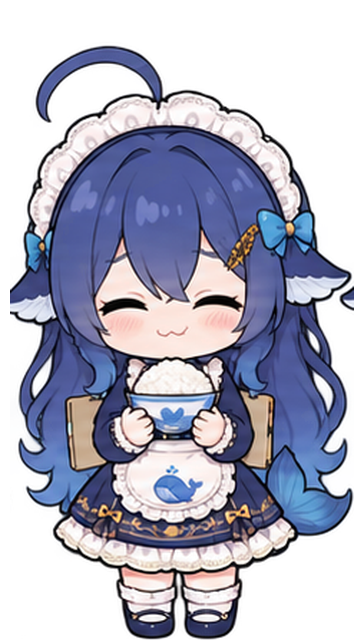
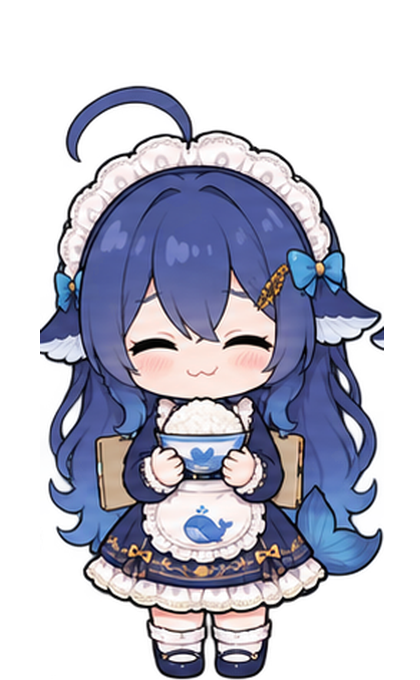
接上 6 个专属姿势（Kapozux 画：记账、数饭碗、本子挡脸、翻本子质问、喷水欢呼、鞠躬），和表情混着用：干活记账/思考、被抓包挡脸/害羞、认错鞠躬/害羞、开心喷水/笑、总账数饭碗/吃饭、闹别扭质问/鼓脸，随机挑一张。新姿势比站姿宽、喷水比头高，所有立绘画布统一放大到 420×680（只补透明边）

diff --git a/src/shared/pet-engine.js b/src/shared/pet-engine.js
@@ -53,12 +53,17 @@ export function rounds(text) {
   })
 }
 
-/** 台词里的动作 → 表情图（assets/xiaobenben/<名字>.png）。缺的图用 normal。 */
+/**
+ * 台词里的动作 → 表情图（assets/xiaobenben/<名字>.png）。给一串的随机挑一张有图的，同一类事不总是同一个样子；
+ * 都没图用 normal。表情（脸）和姿势（记账、数饭碗、本子挡脸……）混着用。
+ */
 export const EXPR = {
-  idle: 'normal', work: 'thinking', file: 'thinking', yawn: 'sleepy', startle: 'surprised', drag: 'surprised',
-  caught: 'shy', bow: 'shy', sigh: 'sad', cheer: 'happy', eat: 'eat', poke: 'happy', angry: 'pout', proud: 'proud',
+  idle: 'normal', work: ['write', 'thinking'], file: ['write', 'thinking'], yawn: 'sleepy', startle: 'surprised', drag: 'surprised',
+  caught: ['hide', 'shy'], bow: ['bow', 'shy'], sigh: 'sad', cheer: ['spout', 'happy'], eat: ['count', 'eat'], poke: 'happy',
+  angry: ['accuse', 'pout'], proud: 'proud',
 }
-export const FIGURES = ['normal', 'blink', 'happy', 'sad', 'surprised', 'sleepy', 'shy', 'thinking', 'eat', 'pout', 'proud', 'flip-1', 'flip-2', 'flip-3', 'flip-4', 'flip-5', 'flip-6']
+export const POSES = ['write', 'count', 'hide', 'accuse', 'spout', 'bow']
+export const FIGURES = ['normal', 'blink', 'happy', 'sad', 'surprised', 'sleepy', 'shy', 'thinking', 'eat', 'pout', 'proud', ...POSES, 'flip-1', 'flip-2', 'flip-3', 'flip-4', 'flip-5', 'flip-6']
 
 const CSS = `
 .fy-root { position: absolute; inset: 0; pointer-events: none; overflow: hidden; font-family: "XBB Rounded", -apple-system, "PingFang SC", "Hiragino Sans GB", "Microsoft YaHei", sans-serif; }
@@ -205,13 +210,18 @@ export function createPet(host, opts) {
   /** 换表情：有这张表情图就换图；没有就用 normal 图 + 代码画的漫画符号和动作。ms 后回到 normal（0 = 保持到下次换） */
   function setExpr(name, ms = 0) {
     clearTimeout(exprTimer)
-    expr = name in MARK || name === 'normal' ? name : 'normal'
+    expr = name in MARK || name === 'normal' || (POSES.includes(name) && srcs[name]) ? name : 'normal'
     float.className = 'fy-float' + (expr !== 'normal' && !srcs[expr] ? ' fy-e-' + expr : '')
     mark.textContent = expr === 'shy' ? '' : MARK[expr] || ''
     show(expr)
     if (ms) exprTimer = setTimeout(() => setExpr('normal'), ms)
   }
-  const playAnim = (anim, ms = 0) => setExpr(EXPR[anim] || 'normal', ms)
+  const playAnim = (anim, ms = 0) => {
+    const e = EXPR[anim] || 'normal'
+    if (!Array.isArray(e)) return setExpr(e, ms)
+    const have = e.filter(n => srcs[n])
+    setExpr(have.length ? have[Math.floor(Math.random() * have.length)] : e.at(-1), ms)
+  }
   const idle = () => setExpr('normal')
   // 眨眼：只在 normal 时眨，每 2.5～6 秒一次，偶尔连眨两下
   let blinkTimer = 0

diff --git a/desktop/index.html b/desktop/index.html
@@ -12,7 +12,7 @@ const prefs = {
 const seen = new Map()
 const load = () => fetch('moments.json', { cache: 'no-store' }).then(r => r.ok ? r.json() : null).then(d => d?.moments ? d : null).catch(e => { console.error('读台词失败', e); return null })
 const engine = createPet(document.getElementById('host'), {
-  size: 320, aspect: 360 / 640, prefs,
+  size: 340, aspect: 420 / 680, prefs,
   fontSrc: 'assets/fonts/xbb-rounded.woff2',
   figureSrc: k => { if (!seen.has(k)) seen.set(k, fetch('assets/xiaobenben/' + k + '.png', { method: 'HEAD' }).then(r => r.ok ? 'assets/xiaobenben/' + k + '.png' : null).catch(() => null)); return seen.get(k) },
   loadMoments: load,

diff --git a/src/client/Pet.jsx b/src/client/Pet.jsx
@@ -38,8 +38,8 @@ export function Pet() {
     let engine = null
     const syncDesktop = d => { host.style.display = d?.desktop?.on ? 'none' : '' }
     engine = createPet(host, {
-      size: 320,
-      aspect: 360 / 640,
+      size: 340,
+      aspect: 420 / 680,
       prefs,
       figureSrc,
       fontSrc: asset('fonts/xbb-rounded.woff2'),

diff --git a/assets/xiaobenben/CREDITS.md b/assets/xiaobenben/CREDITS.md
@@ -4,7 +4,9 @@
 |---|---|---|
 | `turnaround.png` | 三视图原画（正面 / 侧面 / 背面，透明背景） | Kapozux，用 ChatGPT 的图像生成绘制 |
 | `flip-sheet.png` | 翻本子的 6 帧原画（一张横排） | 同上 |
-| `flip-1.png` … `flip-6.png` | 从 `flip-sheet.png` 切出的单帧，统一成 360×640、按脚底对齐 | 同上（切图、对齐：本插件） |
+| `flip-1.png` … `flip-6.png` | 从 `flip-sheet.png` 切出的单帧，统一成 420×680、按脚底对齐 | 同上（切图、对齐：本插件） |
+| `poses-1-sheet.png` | 6 个专属姿势原画（一张横排） | 同上 |
+| `write` `count` `hide` `accuse` `spout` `bow` `.png` | 从 `poses-1-sheet.png` 切出：记账、数饭碗、本子挡脸、翻本子质问、喷水欢呼、鞠躬 | 同上（切图、对齐：本插件） |
 | `expressions-sheet.png` | 9 种表情原画（一张横排） | 同上 |
 | `happy` `sad` `surprised` `sleepy` `shy` `thinking` `eat` `pout` `proud` `.png` | 从 `expressions-sheet.png` 切出的单帧，缩放到和 `normal.png` 同样身高、按脚底对齐 | 同上（切图、对齐：本插件） |
 | `normal.png` | 平时站着的样子，就是 `flip-1.png` | 同上 |
@@ -19,5 +21,5 @@
 
 ## 想加表情图？
 
-同目录放这些名字的透明 PNG（和 `normal.png` 同尺寸 360×640、脚底贴着下边、左右居中）就会自动换上，缺哪张就用 `normal.png` 加代码画的漫画符号：
+同目录放这些名字的透明 PNG（和 `normal.png` 同尺寸 420×680、脚底贴着下边、左右居中）就会自动换上，缺哪张就用 `normal.png` 加代码画的漫画符号：
 `happy.png` `sad.png` `surprised.png` `sleepy.png` `shy.png` `thinking.png` `eat.png` `pout.png` `proud.png`。
